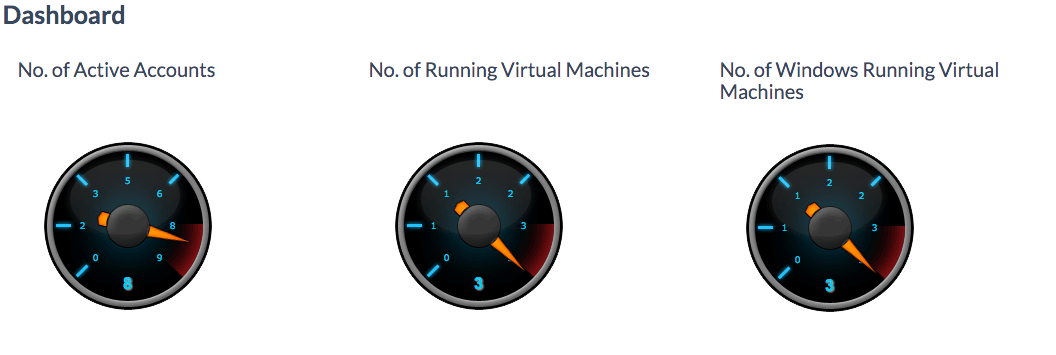
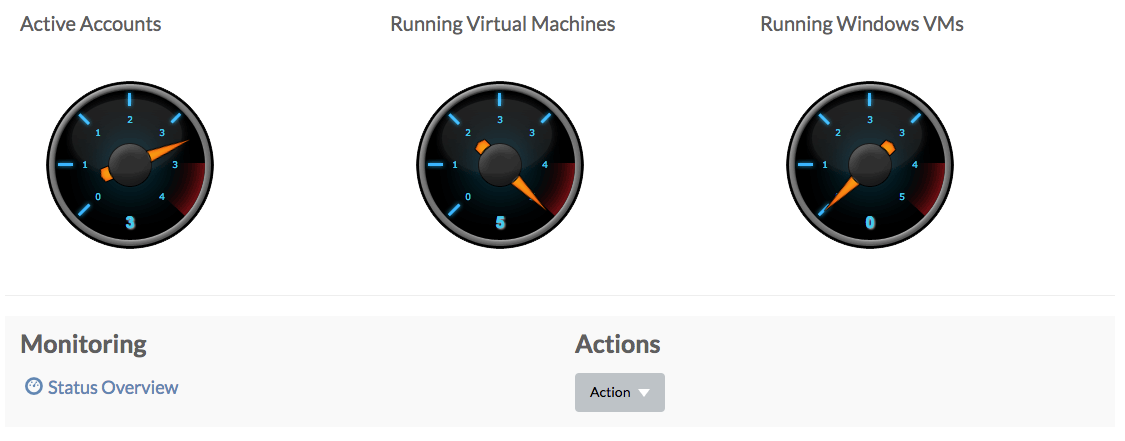
Updating the documentation about the Cloud Broker Home Page, updating screenshots, ...

diff --git a/docs/CloudBrokerPortal/Home/Home.md b/docs/CloudBrokerPortal/Home/Home.md
@@ -1,34 +1,33 @@
-## Cloud Broker Portal
+## Cloud Broker Portal Home Page
 
-The **Cloud Broker Portal** is one of the sub portals used by operators to manage all the clouds:
-
-* **Cloud Broker Portal**
-* Grid Portal
-* At Your Service Portal
-* Power Management Portal
-* Storage Portal
-* System Portal
-
-<br/>The **Cloud Broker Portal** is the management interface, or broker, on top of all the clouds. The current implementation of the **Cloud Broker Portal** supports GigStack clouds. Support for other clouds, including OpenStack clouds, is under development.
-
-In the **Cloud Broker Portal** operators deal with [Accounts](../Accounts/Accounts.md), [Cloud Spaces](../CloudSpaces/CloudSpaces.md), [Locations](../Locations/Locations.md), [Stacks](../Stacks/Stacks.md), [Images](../Images/Images.md), [Public Networks](../PublicNetworks/PublicNetworks.md), [Private Networks](../PrivateNetworks/PrivateNetworks.md), [Users](../Users/Users.md), [Groups](../Groups/Groups.md) and [Virtual Machines](../VirtualMachines/VirtualMachines.md).
+On the home page there are three sections:
+- [Dashboard](#dashboard)
+- [Locations](#locations)
+- [Accounts](#accounts)
 
 
-The **Dashboard** section shows the number of active accounts, the total number of running virtual machines and the number of running Windows virtual machines:
+<a id="dashboard"></a>
+### Dashboard
+Here three gauges report about the number of active accounts, the number of running virtual machines and the number of running virtual machines using Windows:
 
 ![](Dashboard.png)
 
-Under **Monitoring** there's a link to the Status Overview page which is part of the **Grid Portal**, and a list of frequently used actions, **Add User** and **Add Account**:
+The **Actions** dropdown menu provides access to the frequently used actions **Add User** and **Add Account**:
+
+![](!Actions.png)
+
+Also a link to the [Status Overview](../../GridPortal/StatusOverview/StatusOverview.md) page is included.
 
 
-![](Monitoring.png)
-
-
-In the **Locations** section all the locations are shown, linking to the **Location Details** page:
+<a id="locations"></a>
+### Locations
+Here all the locations are listed, linking to the **Location Details** pages:
 
 ![](Locations.png)
 
 
-And finally all the accounts are shown in the **Accounts** table from which you can navigate to the **Accounts Details** pages:
+<a id="accounts"></a>
+### Accounts
+And finally all the accounts are listed, linking to the **Accounts Details** pages:
 
 ![](Accounts.png)

diff --git a/docs/CloudBrokerPortal/CloudBrokerPortal.md b/docs/CloudBrokerPortal/CloudBrokerPortal.md
@@ -1,23 +1,13 @@
 ## Cloud Broker Portal
 
 * [Home](Home/Home.md)
-
 * [Accounts](Accounts/Accounts.md)
-
 * [Cloud Spaces](CloudSpaces/CloudSpaces.md)
-
 * [Groups](Groups/Groups.md)
-
-* [Images](Images/Images.md)
-
 * [Locations](Locations/Locations.md)
-
+* [Images](Images/Images.md)
 * [Private Networks](PrivateNetworks/PrivateNetworks.md)
-
 * [External Networks](ExternalNetworks/ExternalNetworks.md)
-
 * [Stacks](Stacks/Stacks.md)
-
 * [Users](Users/Users.md)
-
 * [Virtual Machines](VirtualMachines/VirtualMachines.md)
